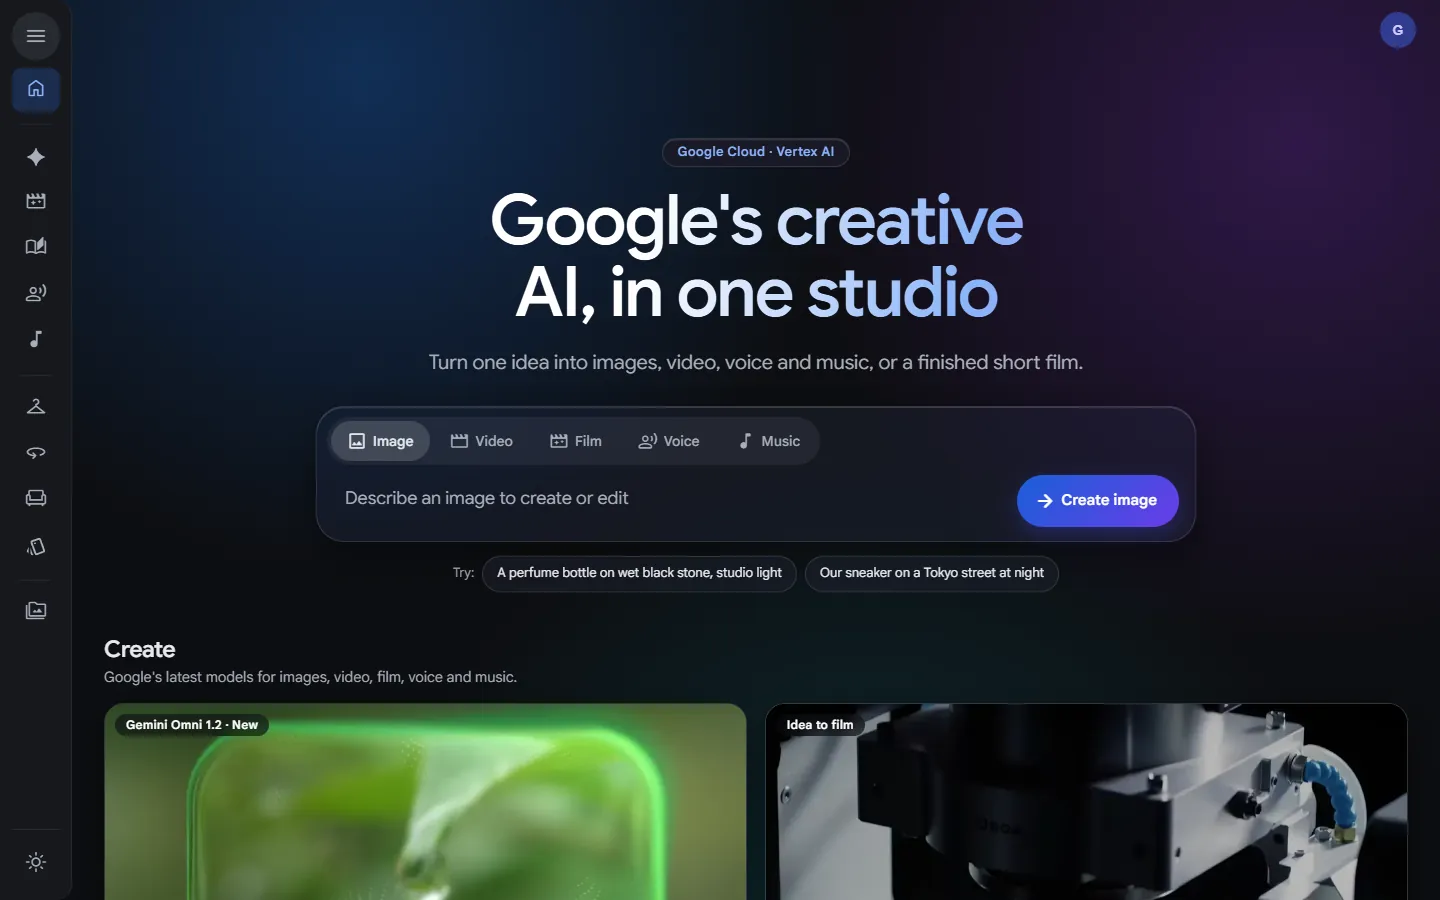
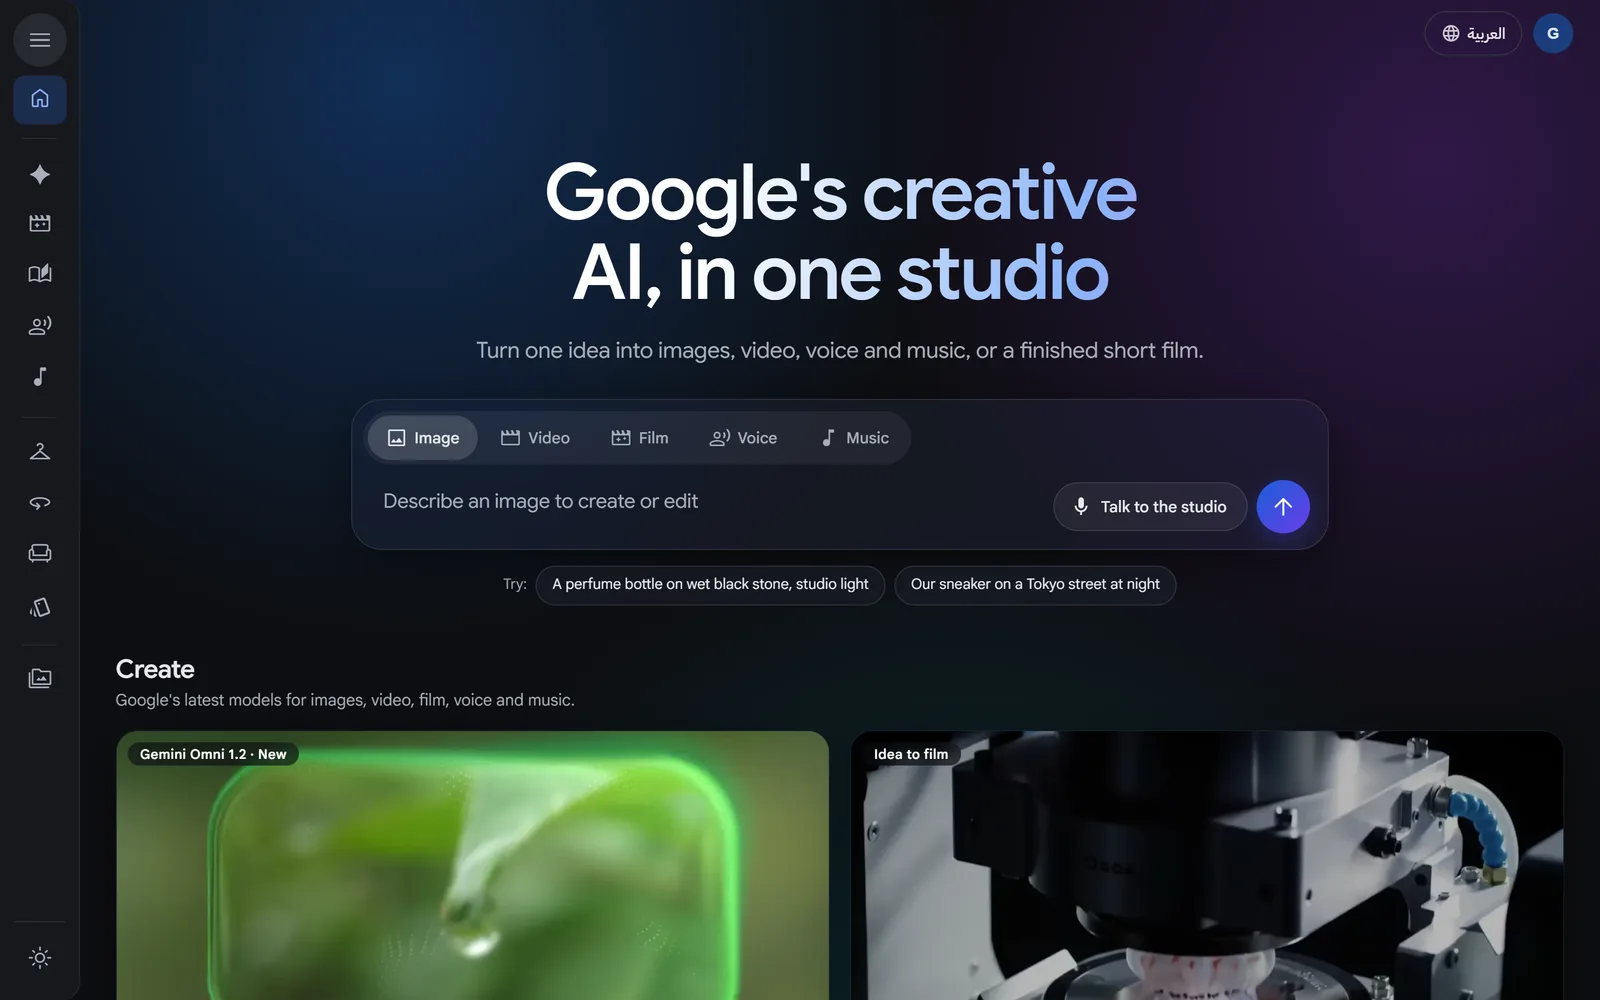
docs: showcase README for the Google demo (#13)
* docs: showcase README with fresh screenshots, models, architecture and demo script

* docs: clearer architecture diagram and language badge in README

* docs: wider labels in the README architecture diagram

* docs: say what the fork adds to Google's Creative Studio

---------

diff --git a/README.md b/README.md
@@ -2,58 +2,154 @@
 
 # GenMedia Studio
 
-**Google's creative AI in one studio: images, video, films, voice and music, on Vertex AI and Cloud Run.**
+### Google's creative AI, in one studio.
+
+One idea becomes an image, a video, a voice-over, a song, or a finished short film,<br>
+using Google's newest generative models on **Vertex AI**, deployed to **Cloud Run** with one command.
 
 [![License: Apache 2.0](https://img.shields.io/badge/license-Apache_2.0-blue.svg)](LICENSE)
 [![Python 3.14](https://img.shields.io/badge/python-3.14-3776AB.svg?logo=python&logoColor=white)](pyproject.toml)
-[![Runs on Cloud Run](https://img.shields.io/badge/runs_on-Cloud_Run-4285F4.svg?logo=googlecloud&logoColor=white)](deploy/quickstart/README.md)
+[![Vertex AI](https://img.shields.io/badge/models-Vertex_AI-4285F4.svg?logo=googlecloud&logoColor=white)](#the-google-models-inside)
+[![Cloud Run](https://img.shields.io/badge/runs_on-Cloud_Run-4285F4.svg?logo=googlecloud&logoColor=white)](deploy/quickstart/README.md)
+[![English and Arabic](https://img.shields.io/badge/languages-English_and_Arabic-34A853.svg)](#built-for-real-demos)
 
-[Quick start](#quick-start) · [Deploy](#deploy-to-cloud-run) · [Configuration](docs/environment_variables.md) · [Contributing](CONTRIBUTING.md)
+[Studios](#the-studios) · [Models](#the-google-models-inside) · [Try it free](#try-it-in-two-minutes) · [Deploy](#deploy-to-your-google-cloud-project) · [Architecture](#architecture) · [Demo script](#a-five-minute-demo)
 
 <br>
 
 <picture>
   <source media="(prefers-color-scheme: dark)" srcset="docs/images/home-dark.webp">
   <source media="(prefers-color-scheme: light)" srcset="docs/images/home-light.webp">
-  <img alt="The GenMedia Studio home page" src="docs/images/home-light.webp" width="100%">
+  <img alt="GenMedia Studio home page: one prompt box with Image, Video, Film, Voice and Music, and a Talk to the studio button" src="docs/images/home-light.webp" width="100%">
 </picture>
 
 </div>
 
-Type one idea on the home page, pick Image, Video, Film, Voice or Music, and the right studio opens with your idea filled in. The whole studio works in English and Arabic (right to left), in light and dark.
+## Why it exists
 
-## Features
+Google's media models are best understood by watching them work together. GenMedia Studio puts them in one polished app a presenter can open in front of a customer: type an idea once, pick what to make, and the right studio opens with the idea filled in. Or click **Talk to the studio** and drive the whole app by voice.
 
-| Studio | What it does | Models |
-|---|---|---|
-| **Image** | Make and edit images from a prompt and reference pictures. | Nano Banana 2.1 |
-| **Video** | Make, edit, extend or upscale video from a prompt, a picture or frames. | Gemini Omni 1.2, Veo 3.1 |
-| **Story** | One idea to a finished film: script, storyboard, scenes, voice-over and music. | Gemini, Nano Banana, Veo, Lyria |
-| **Voice** | A script to natural speech in 130+ languages, one or two speakers. | Gemini 3.8 Flash TTS, Chirp 3 HD |
-| **Music** | Original music, with or without lyrics. | Lyria 3 |
+- **Every modality in one place.** Images, video, speech, music and multi-scene films share one prompt box, one library and one look.
+- **Real workflows, not just prompts.** Story Studio chains five models into a finished film; the industry demos show retail, real estate and brand use cases end to end.
+- **Yours in your own project.** One script deploys it to Cloud Run in your Google Cloud project. It uses Google Cloud credentials (no API keys), keeps every file in your own bucket, and costs nothing while idle.
 
-Industry demos: **Fashion** try-on, **Product 360** turntables, **Interiors** from a floor plan, and **Brand kit** campaigns. Everything you make lands in the **Library**, and sign-in comes with **admin** and **user** roles (or Google sign-in through IAP).
+### What this adds to Google's Creative Studio
+
+GenMedia Studio builds on Google's open-source [GenMedia Creative Studio](https://github.com/GoogleCloudPlatform/genmedia-creative-studio) and keeps its features, so upstream fixes still merge in. On top of it:
+
+| Added here | What it means for a demo |
+|---|---|
+| **One prompt for everything** | The home page routes one idea to the right studio, already filled in. |
+| **Story Studio, idea to film** | Script, set, storyboard, scenes with on-camera speech, narration, music, a timeline editor and an Arabic version. |
+| **Talk to the studio** | A Gemini Live agent drives the app by voice and runs several jobs at once. |
+| **English and Arabic** | Every screen, right to left, in light and dark. |
+| **A redesigned interface** | One look across every studio, fewer clicks, works on a phone. |
+| **One-command deploy and demo mode** | Live in your own project in minutes, or rehearse with no cloud account at all. |
+
+## The studios
 
 <table>
   <tr>
-    <td width="50%">
+    <td width="50%" valign="top">
       <picture>
         <source media="(prefers-color-scheme: dark)" srcset="docs/images/story-dark.webp">
-        <img alt="Story Studio" src="docs/images/story-light.webp">
+        <img alt="Story Studio storyboard with four scenes and camera moves" src="docs/images/story-light.webp">
       </picture>
+      <h3>Story Studio</h3>
+      One idea to a finished film. Gemini writes the script, Nano Banana paints the storyboard, Gemini Omni shoots each scene with sound and on-camera speech, Gemini TTS narrates and Lyria scores it. Finish it in the timeline editor, export an Arabic version, and reuse <b>Sets</b> (the same characters, places and voices) across films.
     </td>
-    <td width="50%">
+    <td width="50%" valign="top">
       <picture>
         <source media="(prefers-color-scheme: dark)" srcset="docs/images/video-dark.webp">
-        <img alt="Video Studio" src="docs/images/video-light.webp">
+        <img alt="Video Studio with Text, Image, First and last frame, References, Edit, Extend and Upscale modes" src="docs/images/video-light.webp">
       </picture>
+      <h3>Video Studio</h3>
+      Make video from text, a picture, first and last frames or reference images, then edit, extend or upscale it. Gemini Omni makes the picture and the sound together; Veo 3.1 is available as an option.
+    </td>
+  </tr>
+  <tr>
+    <td width="50%" valign="top">
+      <picture>
+        <source media="(prefers-color-scheme: dark)" srcset="docs/images/image-dark.webp">
+        <img alt="Image Studio prompt box with Nano Banana 2.1, aspect ratio and resolution chips" src="docs/images/image-light.webp">
+      </picture>
+      <h3>Image Studio</h3>
+      Create and edit images from a prompt and your own reference pictures with Nano Banana 2.1. Settings typed in the prompt ("16:9", "4K") update the chips, and one click turns any image into a video.
+    </td>
+    <td width="50%" valign="top">
+      <picture>
+        <source media="(prefers-color-scheme: dark)" srcset="docs/images/voice-dark.webp">
+        <img alt="Voice studio with Gemini TTS, voice, language, style and pace chips" src="docs/images/voice-light.webp">
+      </picture>
+      <h3>Voice and Music</h3>
+      Natural speech in 130+ languages with one or two speakers and stage directions (Gemini TTS, Chirp 3 HD). Original music, with or without lyrics, from Lyria 3.
     </td>
   </tr>
 </table>
 
-## Quick start
+### Talk to the studio
 
-You need [`uv`](https://docs.astral.sh/uv/). Mock mode needs no Google Cloud account: it returns placeholder media so you can click through every page for free.
+A **Gemini Live** voice agent runs the app for you. Say *"make an image of a red fox in the snow, and while that's going, start a video of waves at sunset"*: the agent opens each studio, types the prompt, runs the jobs side by side, and tells you at the next pause when each one is ready. You can hang up and type instead at any time.
+
+### Industry demos
+
+<table>
+  <tr>
+    <td width="33%" valign="top">
+      <picture>
+        <source media="(prefers-color-scheme: dark)" srcset="docs/images/fashion-dark.webp">
+        <img alt="Fashion virtual try-on" src="docs/images/fashion-light.webp">
+      </picture>
+      <b>Fashion</b><br>Dress a model in any garment, or style a whole look from a catalog.
+    </td>
+    <td width="33%" valign="top">
+      <picture>
+        <source media="(prefers-color-scheme: dark)" srcset="docs/images/product-dark.webp">
+        <img alt="Product 360 turntable" src="docs/images/product-light.webp">
+      </picture>
+      <b>Product 360</b><br>One product photo becomes a 360° turntable video.
+    </td>
+    <td width="33%" valign="top">
+      <picture>
+        <source media="(prefers-color-scheme: dark)" srcset="docs/images/interiors-dark.webp">
+        <img alt="Interiors from a floor plan" src="docs/images/interiors-light.webp">
+      </picture>
+      <b>Interiors</b><br>A floor plan becomes a 3D view, restyled rooms and a video tour.
+    </td>
+  </tr>
+</table>
+
+Plus **Brand kit**, a set of on-brand campaign images from one idea, and the **Library**, where everything anyone makes is saved with its prompt and settings.
+
+## The Google models inside
+
+| Model | What it does here | Used in |
+|---|---|---|
+| **Gemini 3.8 Flash** | Scripts, scene plans, prompt rewriting, the "suggest" and "enhance" buttons | Every studio |
+| **Nano Banana 2.1** (Gemini image) | Image creation and editing, storyboards, try-on, rooms, brand sets | Image, Story, Fashion, Interiors, Brand kit |
+| **Gemini Omni 1.2 Flash** | Video with native sound and speech, edits, extensions | Video, Story, Product 360, Interiors |
+| **Veo 3.1** (optional) | Alternative video model | Video |
+| **Gemini TTS** and **Chirp 3 HD** | Narration and voice-over in 130+ languages | Voice, Story |
+| **Lyria 3** | Instrumental music and songs with lyrics | Music, Story |
+| **Gemini Live** | Real-time voice agent that drives the app | Talk to the studio |
+
+Every model ID is a setting, so a new model version is a config change: see [docs/environment_variables.md](docs/environment_variables.md).
+
+## Built for real demos
+
+<picture>
+  <source media="(prefers-color-scheme: dark)" srcset="docs/images/arabic-dark.webp">
+  <img alt="The home page in Arabic, laid out right to left" src="docs/images/arabic-light.webp" width="100%">
+</picture>
+
+- **English and Arabic.** Every screen switches language and direction (right to left) with one click, in light or dark.
+- **Demo mode.** Run with no Google Cloud account: every studio returns placeholder media instantly, so you can rehearse or click through the whole app for free.
+- **Sign-in your way.** Built-in admin and user roles, or Google sign-in through Identity-Aware Proxy. Admins choose whether the Library is shared or private to each person.
+- **Phone-ready.** Every page works from 390 px wide up.
+
+## Try it in two minutes
+
+You need [`uv`](https://docs.astral.sh/uv/). Demo mode needs no cloud account and costs nothing.
 
 ```bash
 git clone https://github.com/ProjectZero02/creative-studio.git
@@ -62,30 +158,64 @@ uv sync
 APP_ENV=local GENMEDIA_MOCK_GENERATION=true STORY_STUDIO_MOCK=true uv run src/main.py
 ```
 
-Open <http://localhost:8080>. For real models, run `gcloud auth application-default login`, copy `dotenv.template` to `.env`, set `PROJECT_ID` and `GENMEDIA_BUCKET`, then `uv run src/main.py`.
+Open <http://localhost:8080>. Add `?live=offline` to any page to try the voice agent by typing.
 
-## Deploy to Cloud Run
+To use the real models, run `gcloud auth application-default login`, copy `dotenv.template` to `.env`, set `PROJECT_ID` and `GENMEDIA_BUCKET`, and run `uv run src/main.py`.
 
-One script sets up the project (APIs, service account, bucket, Firestore, secrets) and deploys. It is safe to re-run, and an idle studio scales to zero.
+## Deploy to your Google Cloud project
+
+One script turns on the APIs and creates the service account, bucket, Firestore database and secrets, then builds and deploys to Cloud Run. It is safe to re-run, and an idle studio scales to zero.
 
 ```bash
 bash deploy/quickstart/deploy.sh --project YOUR_PROJECT --admin-email you@company.com
 ```
 
-Add `--dry-run` to preview every command. Full guide: [`deploy/quickstart/README.md`](deploy/quickstart/README.md).
+Add `--dry-run` to see every command first, or `--region` to pick another region (default `us-central1`). Prefer infrastructure as code? Terraform modules are in [`deploy/terraform`](deploy/terraform). Full guide: [`deploy/quickstart/README.md`](deploy/quickstart/README.md).
 
-## How it works
+## Architecture
 
-A Python app: a [Mesop](https://mesop-dev.github.io/mesop/) UI on FastAPI, running as one Cloud Run service. Models are called through **Vertex AI** with Google Cloud credentials (no API keys), media is saved to **Cloud Storage**, and the library, users and stories live in **Firestore**.
+```mermaid
+%%{init: {"theme": "base", "flowchart": {"wrappingWidth": 460}, "themeVariables": {"fontFamily": "Google Sans, Roboto, Arial", "fontSize": "15px", "primaryColor": "#E8F0FE", "primaryBorderColor": "#4285F4", "primaryTextColor": "#202124", "lineColor": "#5F6368", "clusterBkg": "#F8F9FA", "clusterBorder": "#DADCE0"}}}%%
+flowchart TB
+  user(["Presenter or team · browser and mic"]) -- "HTTPS and WebSocket" --> iap["Identity-Aware Proxy (optional)"]
+  iap --> run
+
+  subgraph gcp ["Your Google Cloud project"]
+    direction TB
+    run["<b>Cloud Run</b><br>GenMedia Studio · Mesop UI on FastAPI"]
+    run -- "service account, no API keys" --> vertex["<b>Vertex AI</b><br>Gemini 3.8 Flash · Nano Banana 2.1 · Gemini Omni · Veo 3.1<br>Gemini TTS · Chirp 3 HD · Lyria 3 · Gemini Live"]
+    run --> gcs[("<b>Cloud Storage</b><br>images, video, audio")]
+    run --> fs[("<b>Firestore</b><br>library, users, stories, sets")]
+    run --> sm["<b>Secret Manager</b>"]
+    build["<b>Cloud Build</b> and <b>Artifact Registry</b>"] -. "container image" .-> run
+  end
+
+  classDef ai fill:#E6F4EA,stroke:#34A853,color:#202124
+  classDef data fill:#FEF7E0,stroke:#FBBC04,color:#202124
+  class vertex ai
+  class gcs,fs data
+```
+
+- **One Cloud Run service** serves the UI and API, with session affinity for the Gemini Live WebSocket. It scales to zero when nobody is using it.
+- **Vertex AI** is called with the service account's credentials, so there are no API keys to leak or rotate.
+- **Cloud Storage** holds every generated file; **Firestore** holds the library, users, stories and sets.
+- Long jobs (films, multi-scene renders) run in the background and survive page changes.
 
 | Folder | What's in it |
 |---|---|
-| `src/` | The app: `main.py`, plus `pages/` (one file per studio), `components/`, `models/` (Vertex AI calls), `services/`, `routers/`, `state/`, `config/`, `common/` and `assets/` |
-| `deploy/` | Cloud Run quickstart, Terraform and scripts |
-| `test/` | `pytest` suite |
-| `docs/` | Configuration reference, FAQ and screenshots |
-| `scripts/` | Build and maintenance scripts |
+| `src/` | The app: `main.py`, `pages/` (one file per studio), `components/`, `models/` (Vertex AI calls), `services/` (story, live agent and job runners), `routers/`, `state/`, `config/` |
+| `deploy/` | Cloud Run quickstart, Cloud Build files and Terraform |
+| `test/` | `pytest` suite (700+ tests) |
+| `docs/` | Configuration reference, FAQ, plans and screenshots |
 | `experiments/` | Stand-alone apps and MCP servers from upstream |
+
+## A five-minute demo
+
+1. **Home.** Type *"Our sneaker on a Tokyo street at night"*, pick **Image**, and press send. Image Studio opens with the prompt filled in.
+2. **Image to video.** Click **Make a video** on the result. Gemini Omni animates it, with sound.
+3. **Story.** In Story Studio, type one line, for example *"A coffee brand's 30-second ad: sunrise, first sip, city waking up"*. Walk through script, set, storyboard and scenes, then play the finished film in the editor.
+4. **Arabic.** Click **العربية**. The whole app flips to Arabic, right to left. Turn on the Arabic version of the film.
+5. **Voice.** Click **Talk to the studio** and ask for two things at once. The app works by itself while you talk.
 
 ## Contributing
 
@@ -93,4 +223,4 @@ Issues and pull requests are welcome; see [CONTRIBUTING.md](CONTRIBUTING.md). Ru
 
 ## License
 
-A fork of Google's [GenMedia Creative Studio](https://github.com/GoogleCloudPlatform/genmedia-creative-studio), licensed under [Apache 2.0](LICENSE). Not an officially supported Google product, and meant for demos, not production.
+A fork of Google's open-source [GenMedia Creative Studio](https://github.com/GoogleCloudPlatform/genmedia-creative-studio), licensed under [Apache 2.0](LICENSE). This is not an officially supported Google product. It is built for demos and workshops, not production workloads.
